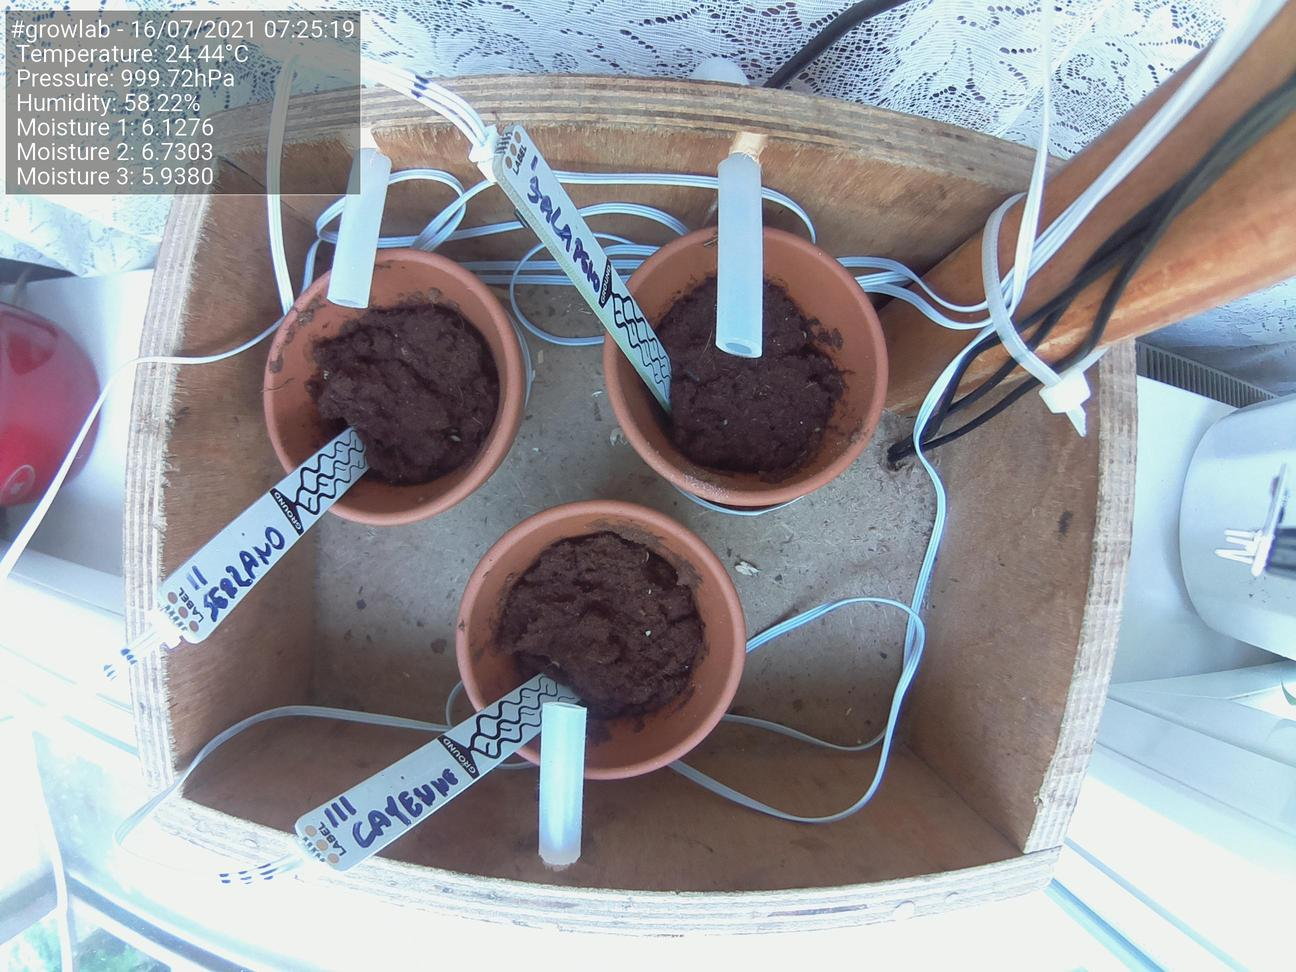
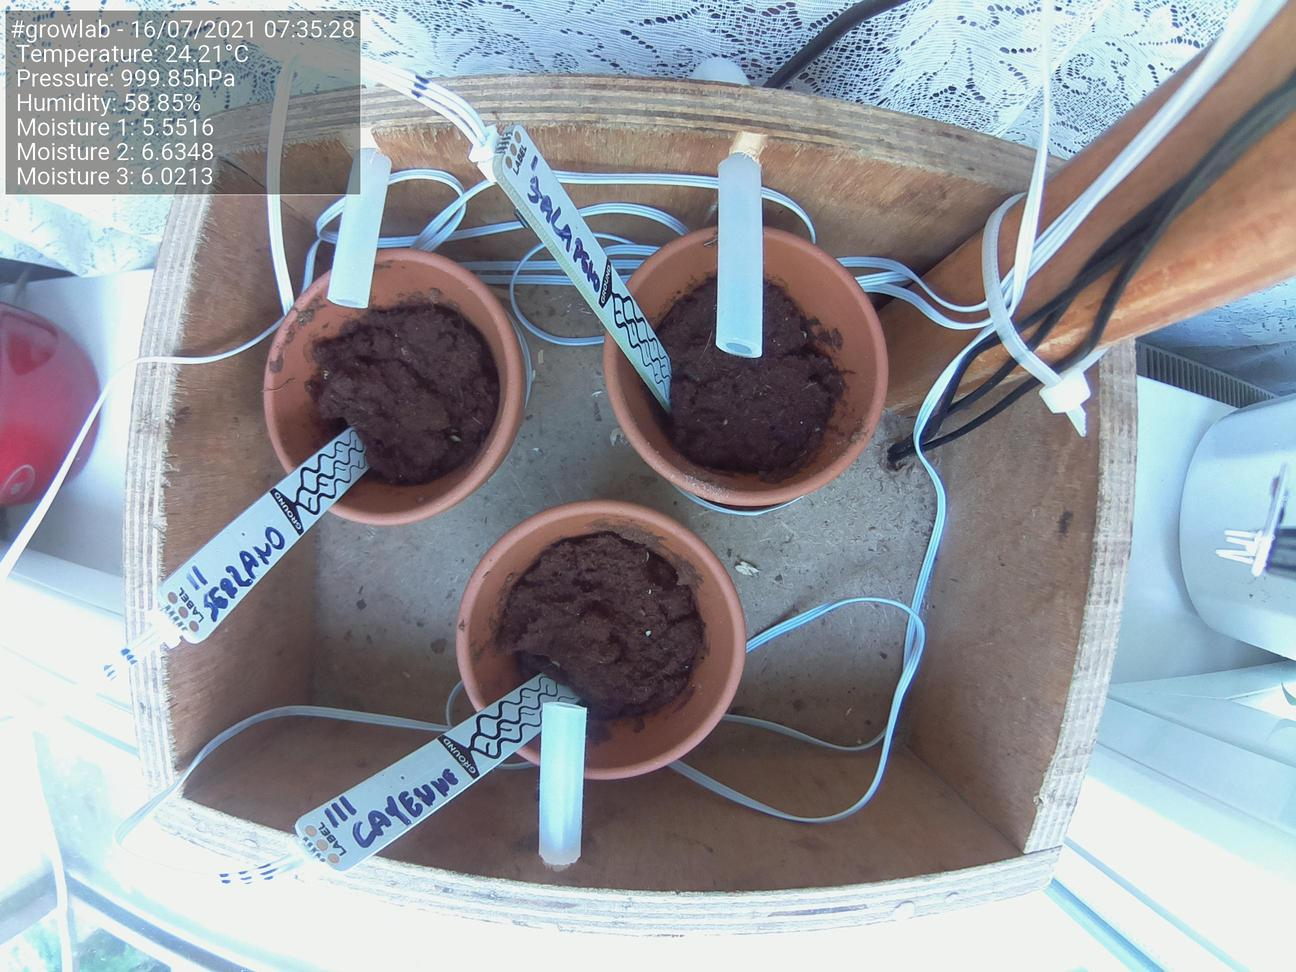
Update images at Fri 16 Jul 07:35:33 BST 2021

diff --git a/docs/index.html b/docs/index.html
@@ -51,29 +51,29 @@
                                 <td>Date</td>
                                 <td>16/07/2021</td>
                                 <td>Moisture 1</td>
-                                <td>6.1276</td>
+                                <td>5.5516</td>
                             </tr>
                             <tr>
                                 <td>Time</td>
-                                <td>07:25:19</td>
+                                <td>07:35:28</td>
                                 <td>Moisture 2</td>
-                                <td>6.7303</td>
+                                <td>6.6348</td>
                             </tr>
                             <tr>
                                 <td>Temperature</td>
-                                <td>24.44°C</td>
+                                <td>24.21°C</td>
                                 <td>Moisture 3</td>
-                                <td>5.9380</td>
+                                <td>6.0213</td>
                             </tr>
                             <tr>
                                 <td>Humidity</td>
-                                <td>58.22%</td>
+                                <td>58.85%</td>
                                 <td></td>
                                 <td></td>
                             </tr>
                             <tr>
                                 <td>Pressure</td>
-                                <td>999.72hPa</td>
+                                <td>999.85hPa</td>
                                 <td></td>
                                 <td></td>
                             </tr>
@@ -84,7 +84,7 @@
 
                 <h5>Latest image</h5>
                 <div style="width: 85%;">
-                            <img class="figure-img img-fluid rounded" src="./preview.jpg?uid=1626416724.1775846">
+                            <img class="figure-img img-fluid rounded" src="./preview.jpg?uid=1626417333.3177238">
                 </div>
             </div>
         </div>
